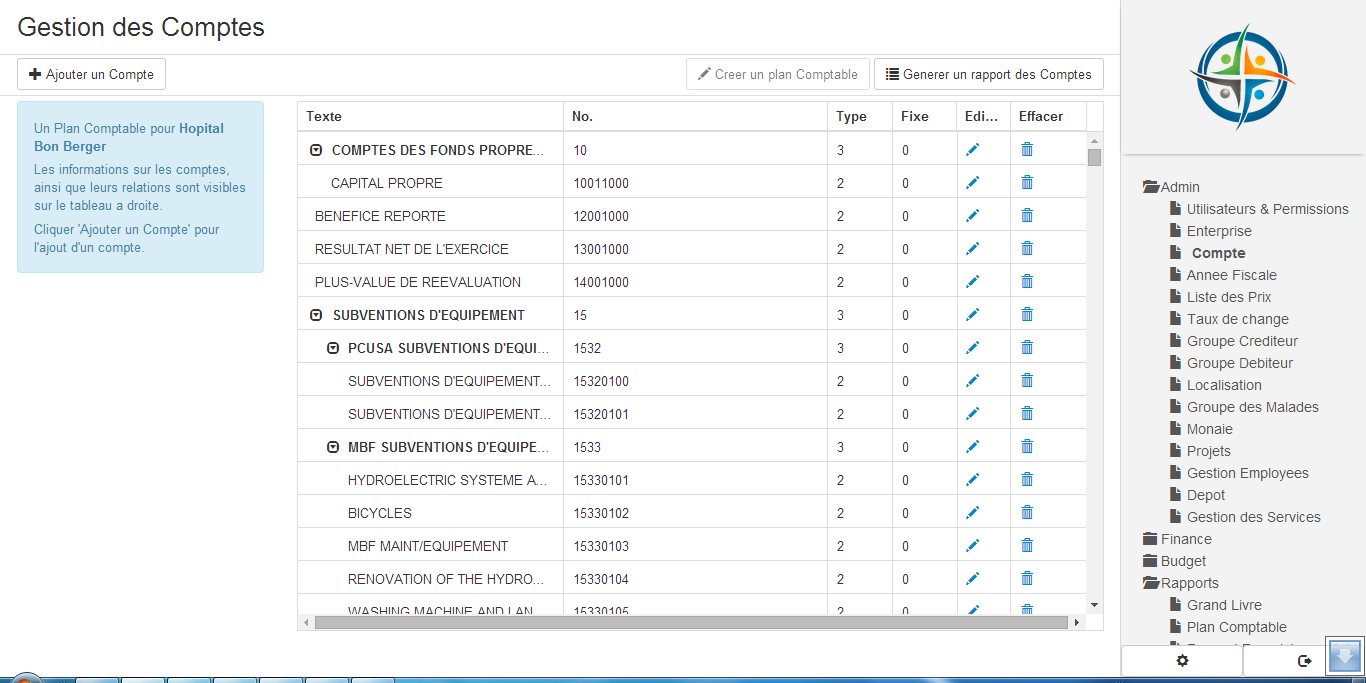
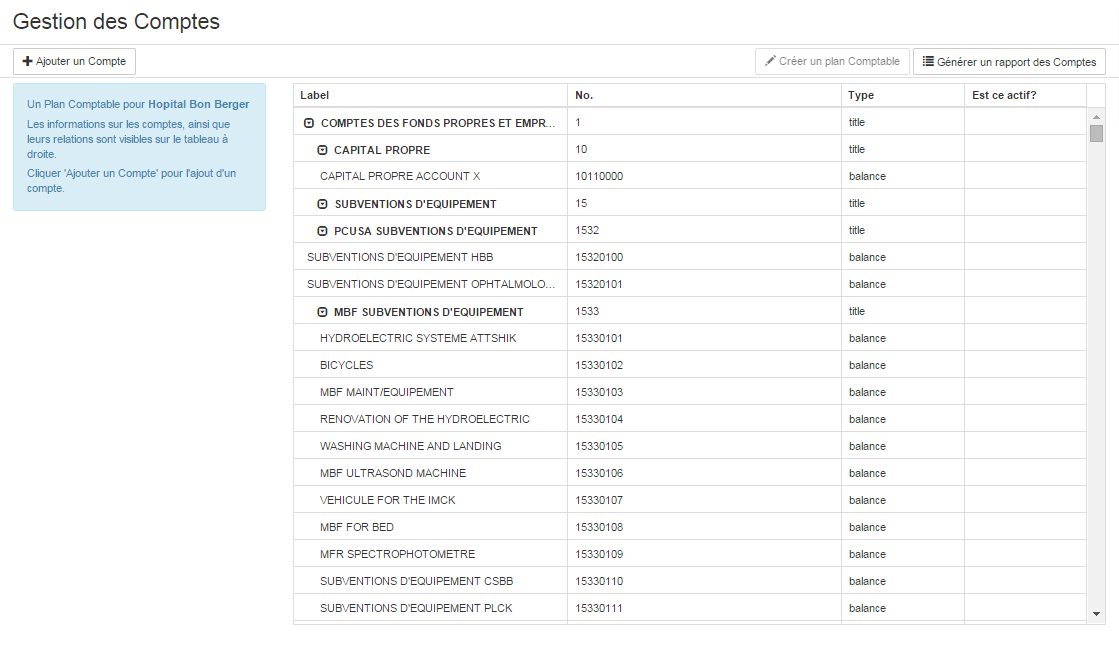
Updating of user guide

diff --git a/docs/BHIMA User Guide/HMS manuel d'utilisation.tex b/docs/BHIMA User Guide/HMS manuel d'utilisation.tex
@@ -11,7 +11,7 @@
 \usepackage{graphicx}
 \usepackage[top=2cm, bottom=2cm, left=2cm, right=2cm]{geometry}
 \author{IMA World Health Web Developer Team}
-\title{\includegraphics[width=12cm]{ima.png} \\Hospital Management System\\ (HMS) \\ Manuel d'utilisation}
+\title{\includegraphics[width=12cm]{ima.png} \\BASIC HOSPITAL INFORMATION MANAGEMENT APPLICATION\\ (BHIMA) \\ Manuel d'utilisation}
 
 \begin{document}
 %Page de garde
@@ -47,8 +47,8 @@ Dans sa partie gauche de la figure ci-dessous on retrouve le logo IMA World Heat
 \label{Interface principale pour le changement de langue}
 \end{figure} 
 \newpage
-\section{Les modules du système HMS}
-Le système d'information HMS possède plusieurs modules qui sont représenté par l'arborescence ci-dessous.
+\section{Les modules du système BHIMA}
+Le système d'information BHIMA possède plusieurs modules qui sont représenté par l'arborescence ci-dessous.
 \begin{figure}[h]
 \begin{center}
 \includegraphics[width=4.5cm]{pic/arbo.png}
@@ -60,14 +60,18 @@ Voici les différentes rubriques qui existent dans le système:
 % Liste des modules
 \begin{itemize}
 \item Admin. %•
-\item Finance
 \item Budget
-\item Rapports
-\item Stock
+\item Canevas SNIS
+\item Comptabilité
+\item Finances
 \item Hôpital
 \item Payroll
-\item Comptabilité
-\item Canevas SNIS
+\item Rapports
+\item Stock
+
+
+
+
 \end{itemize}
 Nous allons à présent détailler chacun d'entre eux.
 \newpage
@@ -220,9 +224,11 @@ Lorsque l'utilisateur click sur le bouton \includegraphics[scale=1]{pic/AjouterC
 \begin{itemize}
 \item \textbf{Le libelle de compte}: permet de nomme un compte \\
 \item \textbf{Le type de Compte}: permet de dire si un compte est du type incom/expense, balance, title.\\
-\item \textbf{Numero de compte]}: permet de donner un numéro à un compte \\
+\item \textbf{Numero de compte}: permet de donner un numéro à un compte \\
 \item \textbf{Groupe de comptes (Comptes titres)}: permet d'affilier un compte à un groupe de compte.\\
 \end{itemize}
+
+Si le compte est du type \textbf{Title}, un groupe de bouton radio apparait pour permettre de sélectionner dans quelle categorie des titres se trouve le compte, un compte de type title peut être soit \textbf{un actif}, \textbf{un passif} ou bien dans une autre catégorie.
 
 Après avoir renseigner tous ce champ, un clic sur le bouton soumettre permet d'ajouter un compte dans la liste des comptes.
  
@@ -242,10 +248,10 @@ Après la création du plan comptable, ainsi que l'ajout de compte, le plan comp
 Dans l'entête Texte on retrouve les noms des différents comptes ainsi que ceux de groupe de comptes, dans l'entête No on retrouve le différent numéro des comptes, l'entête Type permet de savoir si le compte est un Income /expence, Balance ou bien un titre et l'entête effacer permet de supprimé un compte.  Il y a aussi le bouton \includegraphics[scale=0.7]{pic/GenereRapportCompt.png} qui permet d'afficher une version imprimable du plan comptable.
 
 Comme nous le montre l'image ci-après, on affiche le plan comptable de l'organisation par rapport à une date bien précise.\\
-\newpage
+
 \begin{figure}[h]
 \begin{center}
-\includegraphics[width=14cm]{pic/AnneeFiscal.png}
+\includegraphics[width=14cm]{pic/PlanComptable.png}
 \end{center}
 \caption{Aperçue du plan Comptable}
 \label{Aperçue du plan Comptable}
@@ -277,9 +283,14 @@ Lorsque l'utilisateur click sur le bouton \includegraphics[scale=0.7]{pic/CreeAn
 \item \textbf{Description}: permet de décrire l'année fiscale.
 \item \textbf{Début Mois}: permet de préciser le premier mois de l'année fiscale
 \end{itemize}
-\textbf{Il existe aussi deux boutons radio une année et Spécifier }: si l'on clique sur le bouton radio une année, l'année fiscale commencera à partir du \textbf{début mois} jusqu'au mois précisé de l'année prochaine. Mais si l'on clique sur le bouton \textbf{spécifier} dans ce cas l'utilisateur devra préciser le champ \textbf{Fin Mois}.
+\textbf{Il existe aussi deux boutons radio une année et Spécifier }: si l'on clique sur le bouton radio \textbf{une année}, l'année fiscale commencera à partir de la période préciser et couvrira une période de douze mois mais si l'on clique sur le bouton \textbf{spécifier} dans ce cas l'utilisateur devra préciser le champ \textbf{Fin Mois} qui marquera la fin de l'année fiscale.
+
+Le champ \textbf{Année Fiscale précédent} n'apparait que s'il existe au moins une année fiscale déjà enregistrer dans le système. 
 
 Après avoir renseigné tous ce champ, un clic sur le bouton \textbf{Enregistrer} permet d'ajouter Une année fiscale dans ladite liste.
+
+\newpage
+
 \subsection{Liste des années fiscale}
 Voici comment se présente la liste des années fiscale
 
@@ -2038,7 +2049,7 @@ Dans l'entête de cette interface on retrouve l'identité du patient, la date, l
 
 Pour confirmer la livraison des produits, il suffit de cliquer sur le bouton \includegraphics[scale=0.7]{pic/SoumettreDistribution.png}.
 
-Le système HMS detecte la péremption des produits pharmaceutiques lors de l'opération de livraison des produits pharmaceutiques en affichant des messages d'alerte à l'écran de l'ordinateur comme le montre la figure suivante.
+Le système BHIMA detecte la péremption des produits pharmaceutiques lors de l'opération de livraison des produits pharmaceutiques en affichant des messages d'alerte à l'écran de l'ordinateur comme le montre la figure suivante.
 
 \begin{figure}[h]
 \begin{center}
